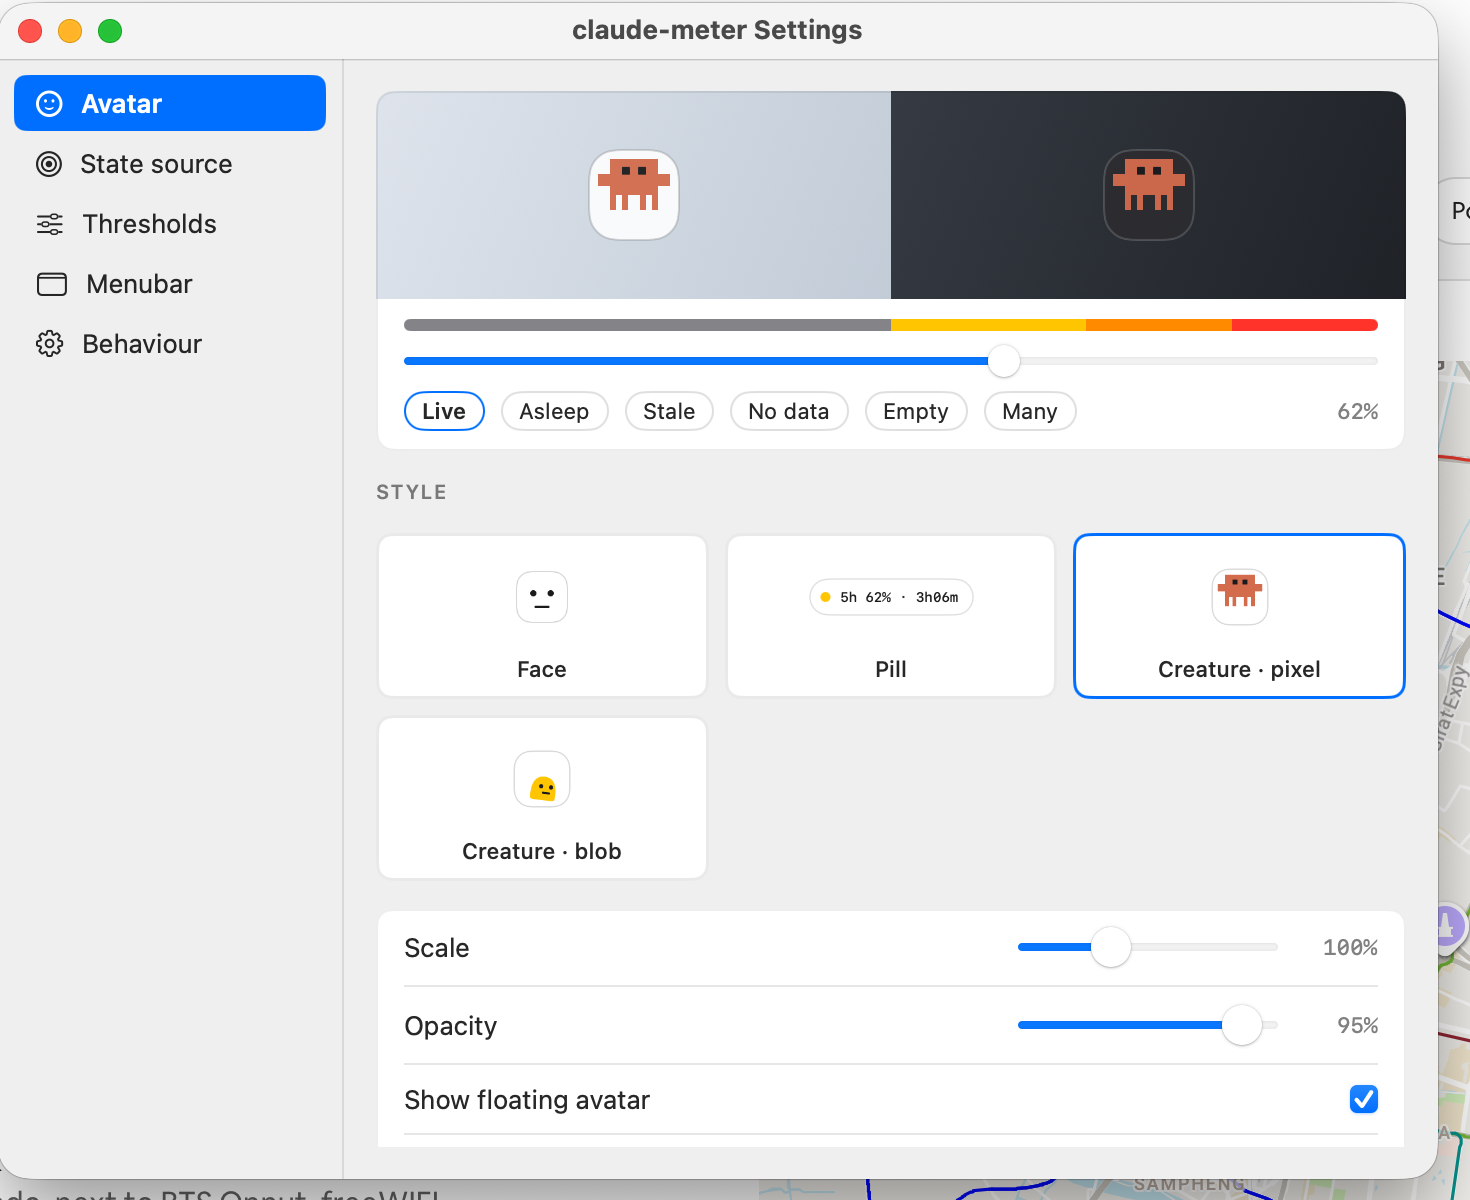
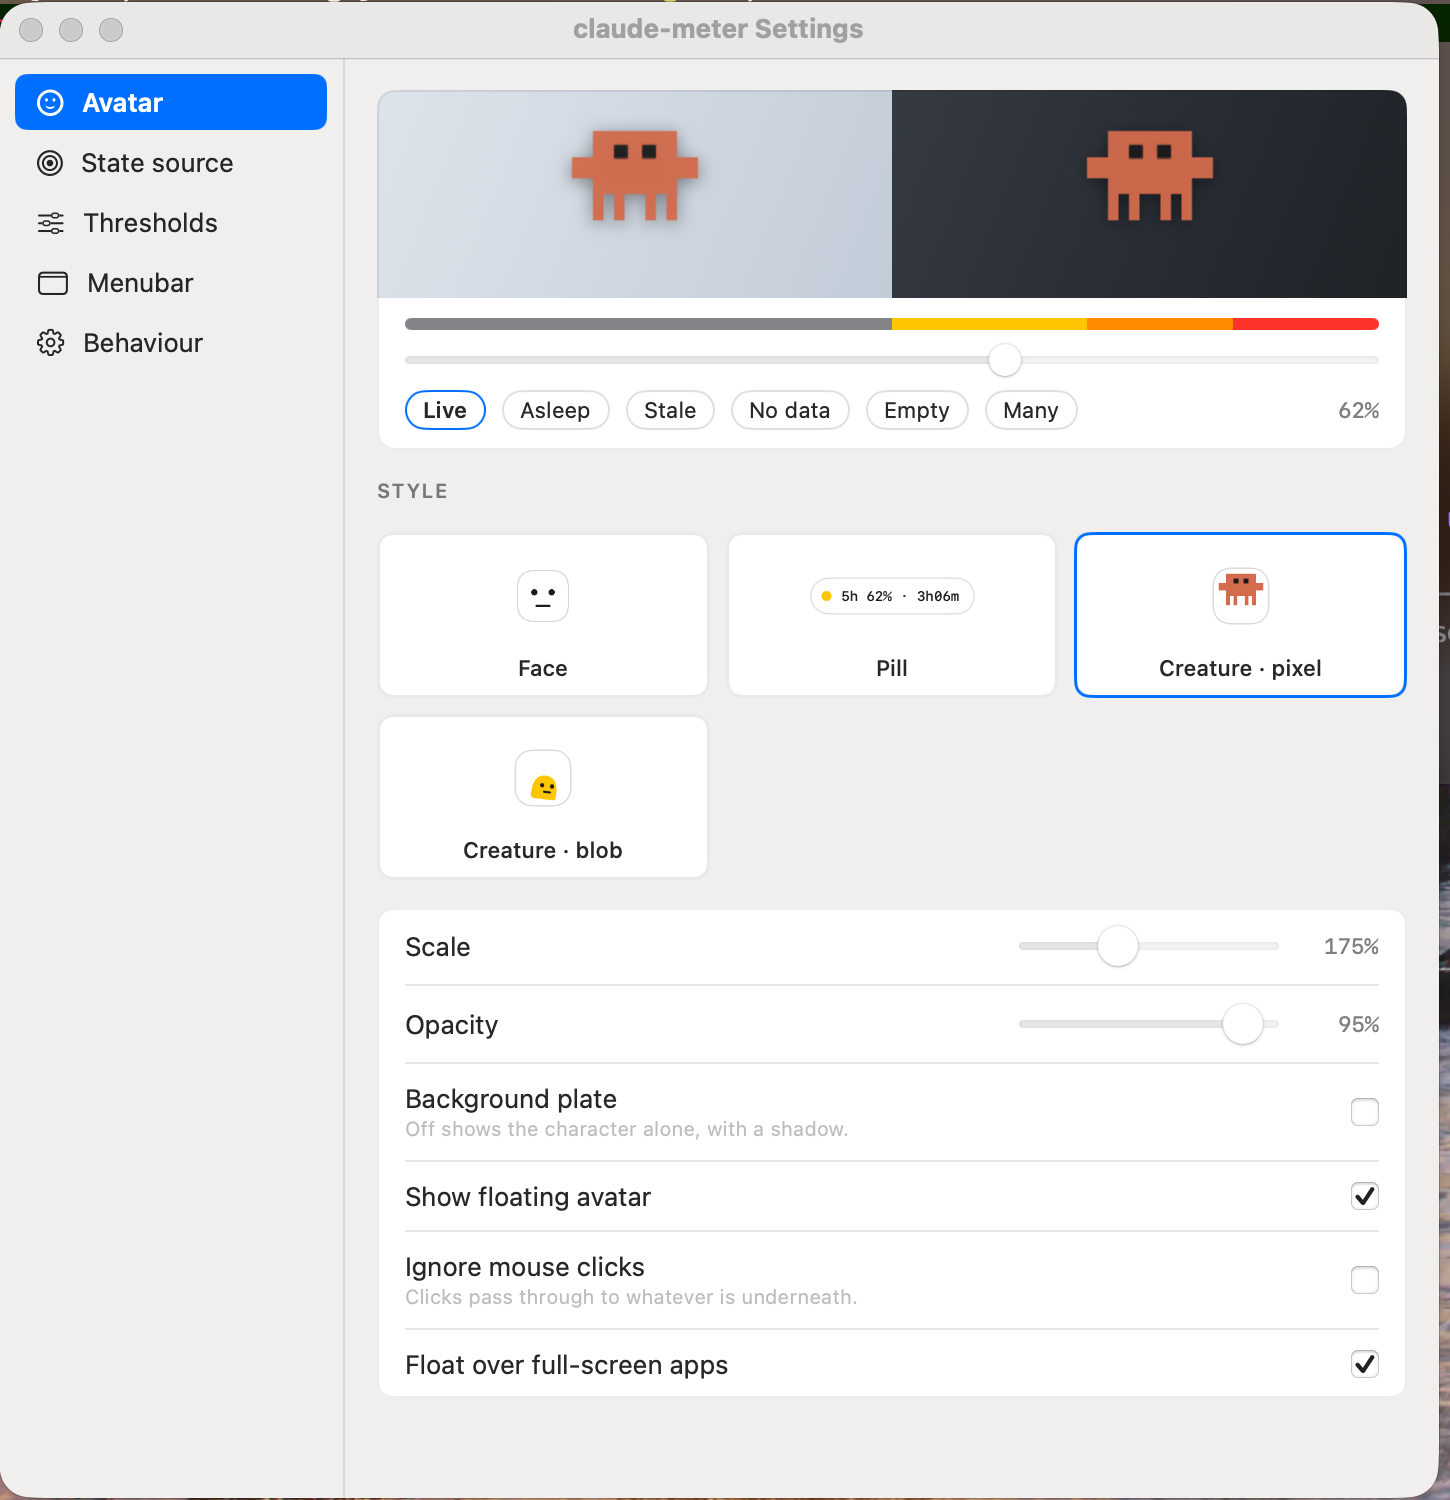
Recover the settings window when its saved frame is off-screen
setFrameAutosaveName restores the last frame verbatim, including the screen
it belonged to, and AppKit does not check that screen still exists. After a
display change the window came back at 698 -863 on a screen that is no
longer attached, so opening Settings appeared to do nothing whatsoever. It
re-centres now when the restored frame intersects no screen -- the same
check the avatar panel already had, arrived at from the other direction.

Also refreshes docs/settings-avatar.png, which predated both the Background
plate row and the taller window, and re-renders the state grid.

The --open-settings debug path now forces the window above the frontmost
app. Activation alone does not reliably win when the launch came from a
background shell, and the whole point of that path is to be photographable.

diff --git a/Sources/ClaudeMeter/SettingsWindow.swift b/Sources/ClaudeMeter/SettingsWindow.swift
@@ -93,10 +93,23 @@ final class SettingsWindowController {
                 rootView: SettingsView(settings: settings, ui: ui))
             window = w
         }
+        recoverIfOffscreen()
         // The app is an .accessory agent, so it is not in the activation order.
         // Without this the window opens behind whatever is in front.
         NSApp.activate(ignoringOtherApps: true)
         window?.makeKeyAndOrderFront(nil)
+    }
+
+    /// `setFrameAutosaveName` restores the last frame verbatim, including onto
+    /// a display that has since been unplugged — the saved frame records the
+    /// screen it belonged to, and AppKit does not check that it still exists.
+    /// Settings then opens somewhere unreachable and looks like it did nothing.
+    private func recoverIfOffscreen() {
+        guard let w = window else { return }
+        let onScreen = NSScreen.screens.contains { $0.visibleFrame.intersects(w.frame) }
+        guard !onScreen else { return }
+        w.setContentSize(NSSize(width: 720, height: 720))
+        w.center()
     }
 }
 

diff --git a/Sources/ClaudeMeter/AppDelegate.swift b/Sources/ClaudeMeter/AppDelegate.swift
@@ -22,6 +22,13 @@ final class AppDelegate: NSObject, NSApplicationDelegate {
             }
             controller.openSettings(pane: pane)
             NSApp.activate(ignoringOtherApps: true)
+            // Activation alone does not reliably win against whatever is
+            // frontmost when the launch came from a background shell, and the
+            // point of this path is to be photographable. Debug-only.
+            for w in NSApp.windows where w.title == "claude-meter Settings" {
+                w.level = .floating
+                w.orderFrontRegardless()
+            }
         }
         // Same reason: the avatar's popover cannot be opened by a synthetic
         // click either. This one deliberately does NOT promote the activation

diff --git a/HANDOFF.md b/HANDOFF.md
@@ -183,6 +183,18 @@ The click/drag split itself is logic-only — it has not been driven with a real
 mouse, because synthetic clicks need Accessibility permission this machine does
 not grant.
 
+## A saved window frame can point at a display that is gone
+
+`setFrameAutosaveName` restores the last frame verbatim, and the saved record
+includes the screen it belonged to — AppKit does not check that screen still
+exists. The settings window came back at `698 -863 720 748` on a screen
+`158 -1169 1800 1130`, i.e. entirely off the only display now attached, so
+opening Settings looked like it did nothing at all. `recoverIfOffscreen()`
+re-centres it when the restored frame intersects no screen.
+
+This is the same failure the avatar panel had, from a different direction.
+Anything that persists a position here needs the same check.
+
 ## Known legibility limits without a plate
 
 - The blob creature's calm and no-data states are the dormant grey, which
